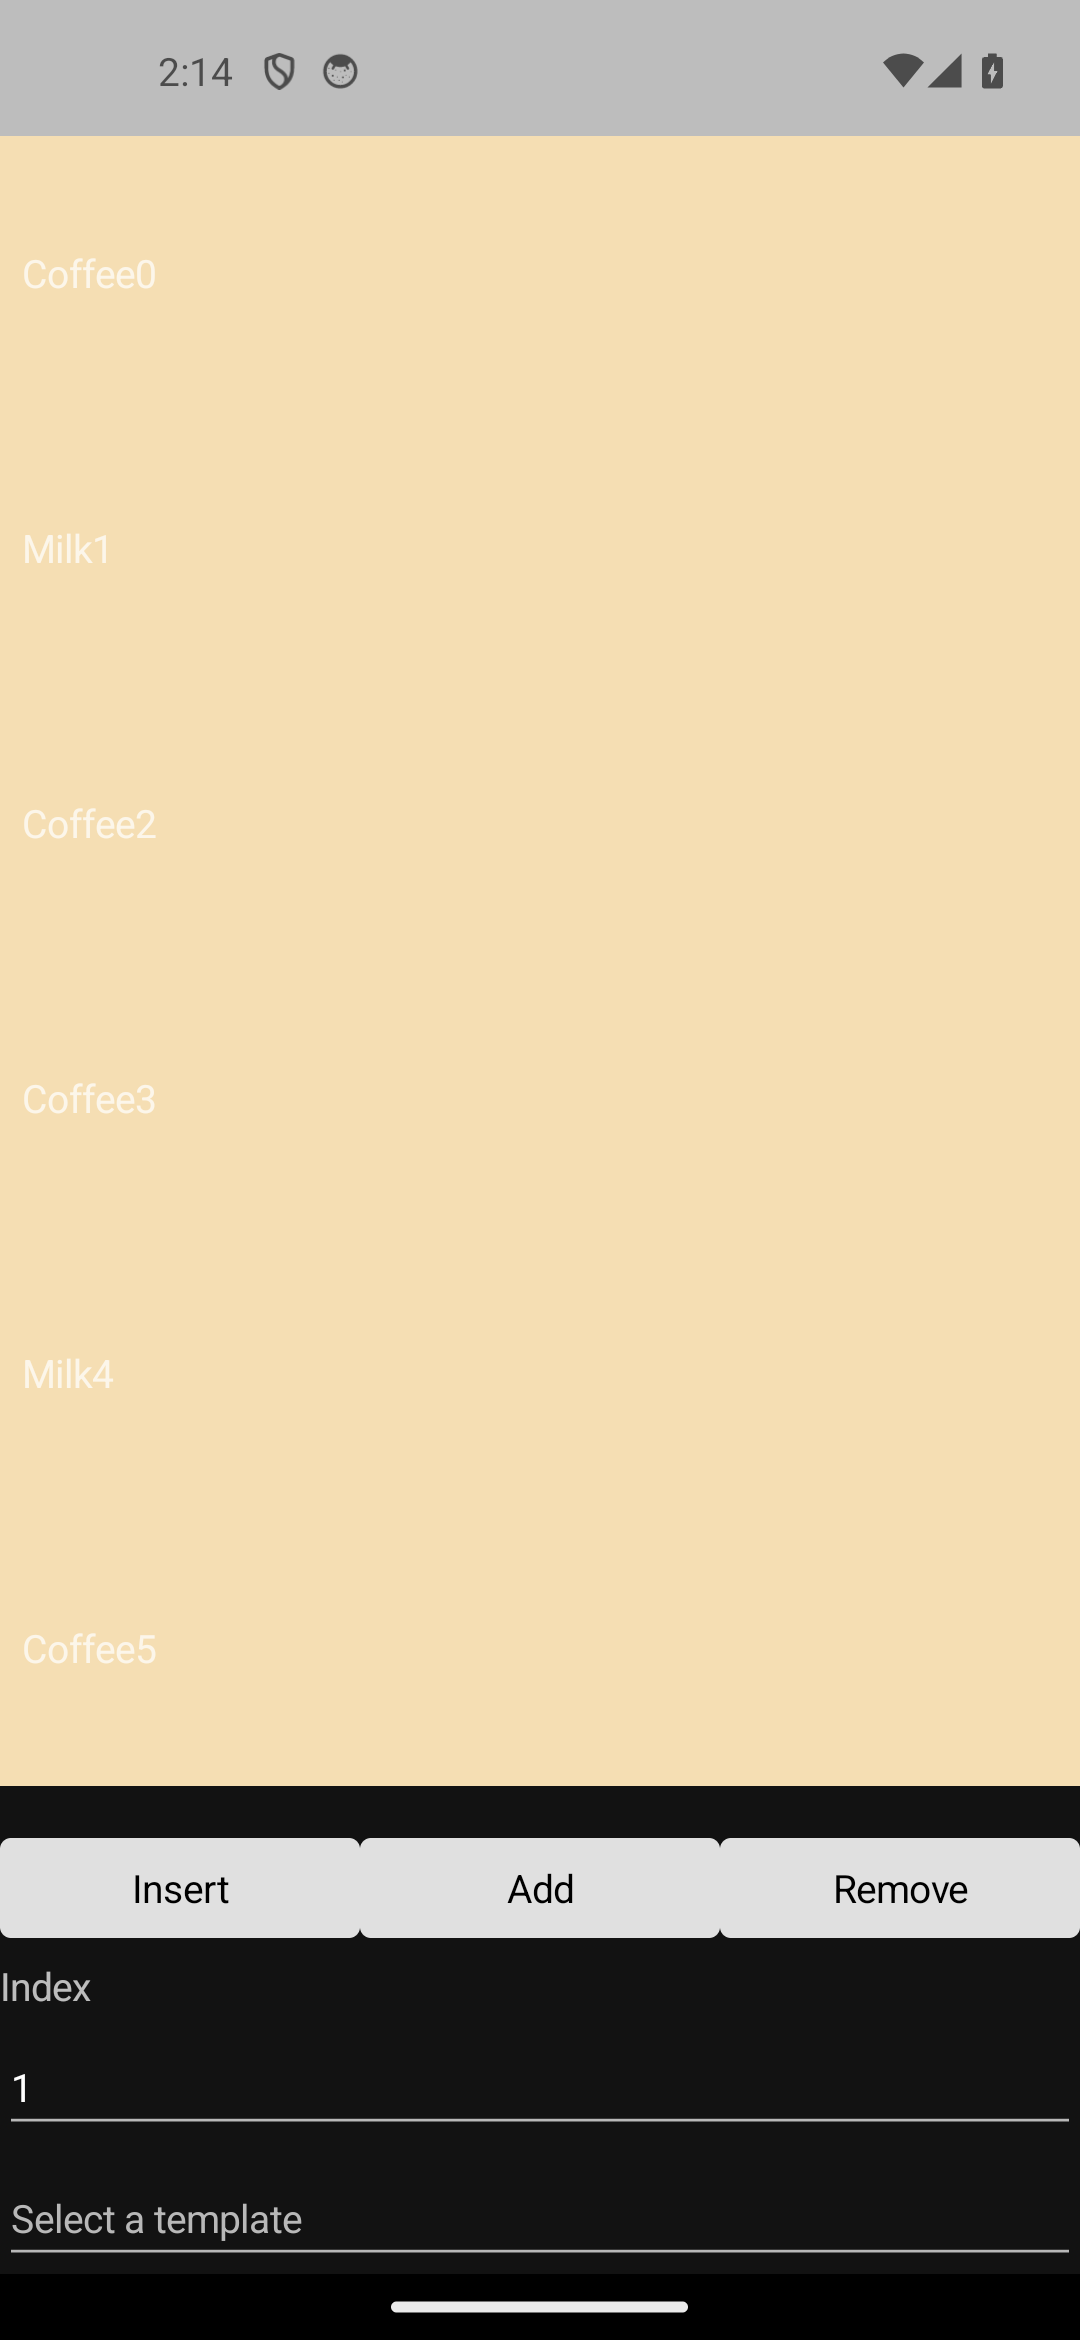
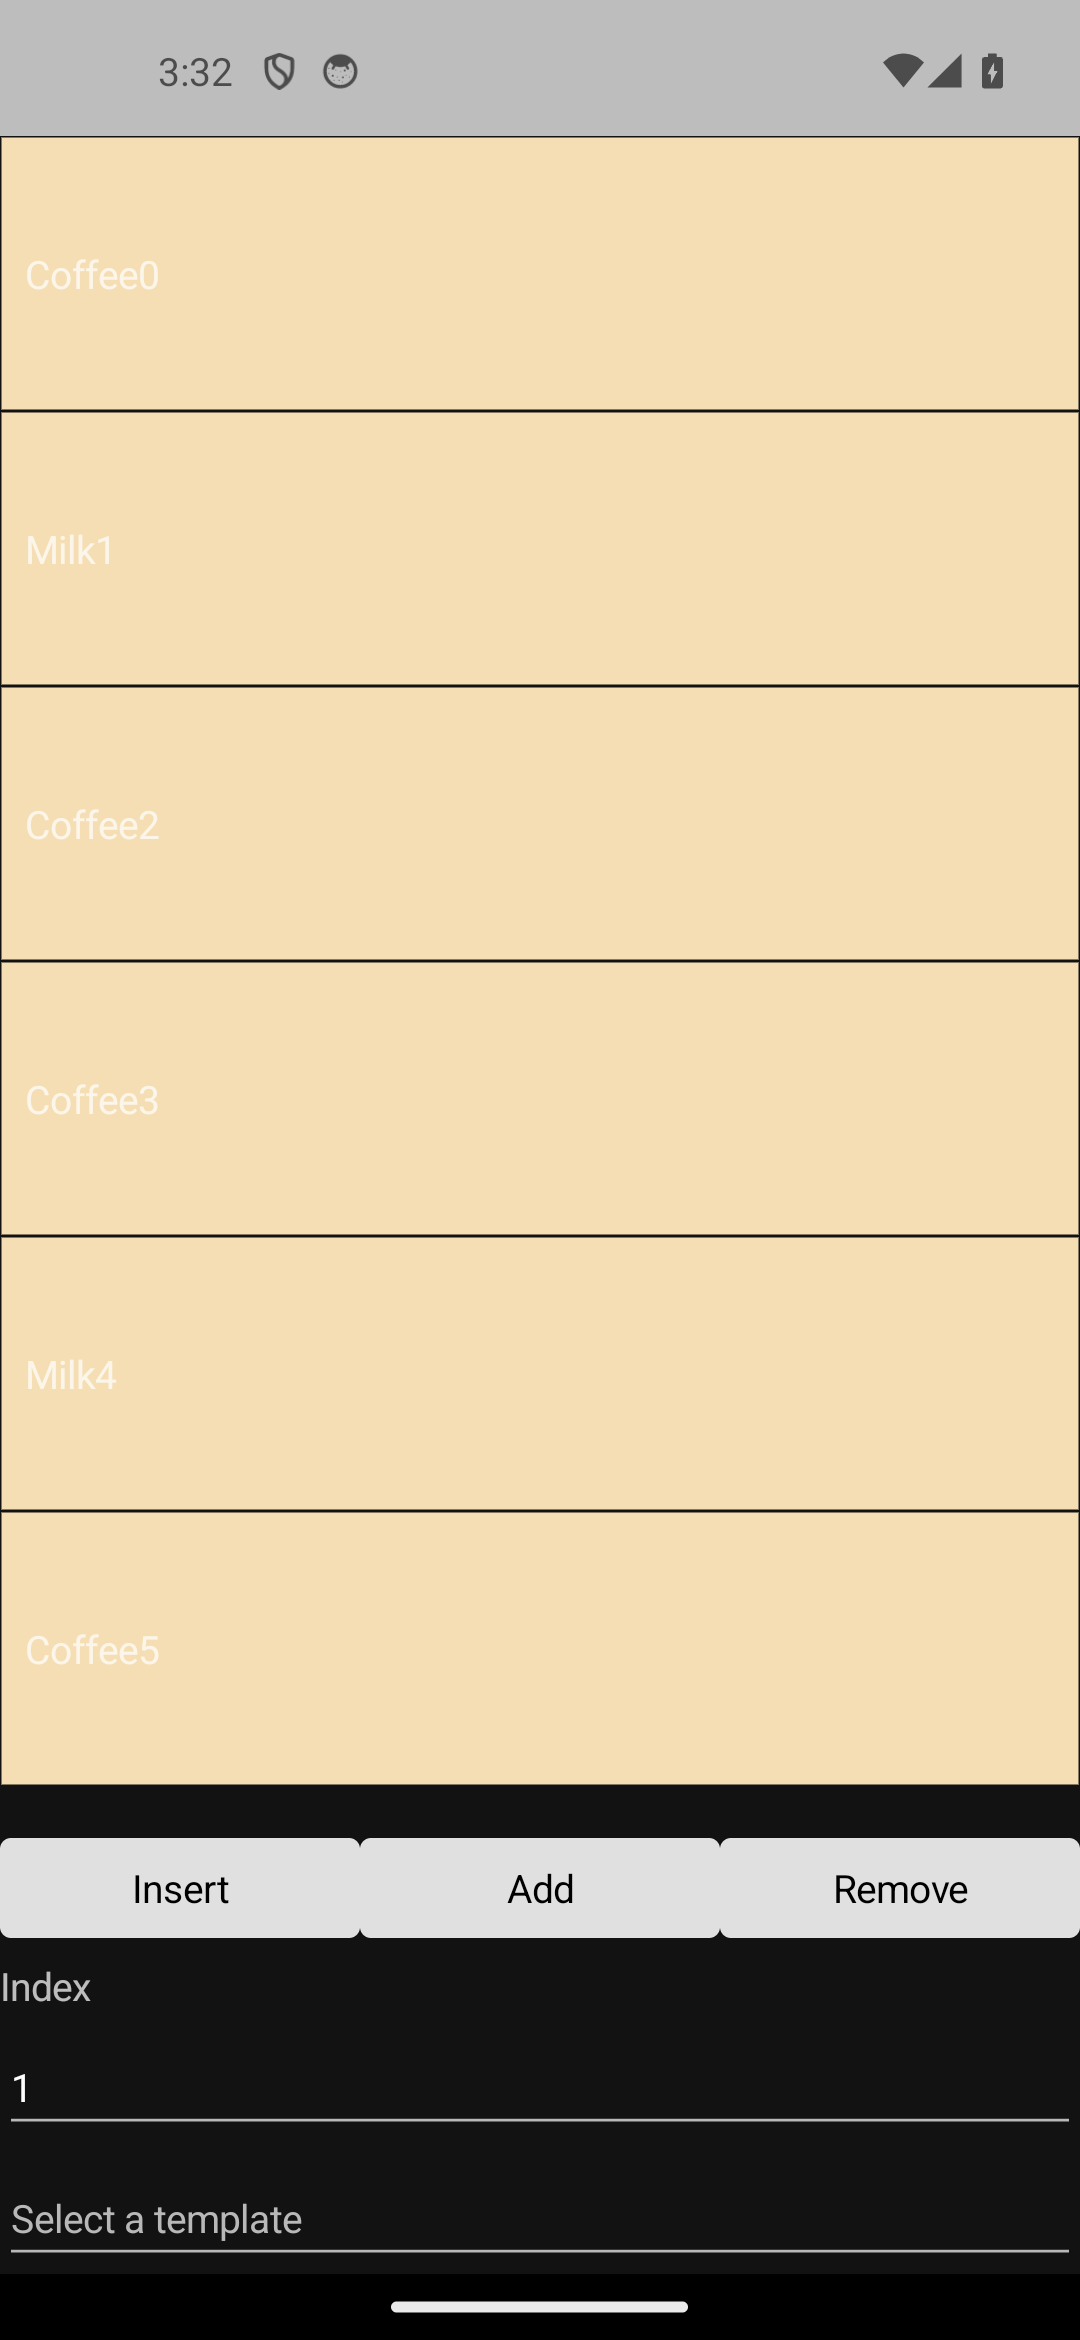
fix(gallery): varied_size_selector cell is a real Border -> GREEN both columns
The code-first page folded the twin's <Border BackgroundColor=Wheat HeightRequest=100
Padding=8> onto a single-root Label cell carrying the Border's look. That reproduces
the colour and height but NOT the geometry: MAUI's MauiDrawable insets a Border's
FILL by strokeThickness/2 (StrokeThickness defaults to 1), so consecutive cells show
a ~4px gap, while a Label cell fills its whole slot. The cpp column therefore painted
one continuous 1650px band where MAUI paints 6 bands of 271px at a 275px pitch.

drink_cell is now a border subclass OWNING its Label (border content is a NON-OWNING
reference per PROFILE §8, so a template cell that creates a child must own it) — the
same pattern as carousel_page's carousel_card and header_footer_template_page's
photo_cell. Item data lands via on_binding_context_changed, since a staged template
binding can only target the cell ROOT. register_handlers maps drink_cell ->
border_handler before the collection_view realize walk (without it the cell realize
silently no-ops and the list renders blank).

varied_size_selector cpp: 1.81% -> 0.09% light / 0.64% dark, GREEN. Its bands now
match MAUI exactly. Pairs with the border fill-inset fix (23e6ef0f66) that greened
the xaml column.

gallery_structure_equivalence.varied_size_selector passes. (8 OTHER equivalence tests
- animation, behaviors, gestures, input_controls, invalidate_brush,
selection_command_param, vertical_stack, web_view - fail identically without this
[…]

diff --git a/port/cpp/examples/gallery/pages/varied_size_selector_page.hpp b/port/cpp/examples/gallery/pages/varied_size_selector_page.hpp
@@ -58,6 +58,7 @@
 #include <string>
 #include <vector>
 
+#include "maui/controls/border.hpp"
 #include "maui/controls/button.hpp"
 #include "maui/controls/content_page.hpp"
 #include "maui/controls/entry.hpp"
@@ -71,13 +72,16 @@
 #include "maui/controls/templates/data_template_selector.hpp"
 #include "maui/controls/vertical_stack_layout.hpp"
 #include "maui/controls/view.hpp"
+#include "maui/core/border_handler.hpp"
 #include "maui/core/grid_length.hpp"
+#include "maui/core/handler_registry.hpp"
 #include "maui/core/observable_collection.hpp"
 #include "maui/core/text_alignment.hpp"
 #include "maui/core/thickness.hpp"
 #include "maui/core/type_tag.hpp"
 #include "maui/graphics/colors.hpp"
 #include "maui/graphics/solid_paint.hpp"
+#include "maui/hosting/maui_app.hpp"
 
 namespace maui::samples
 {
@@ -100,6 +104,41 @@ namespace maui::samples
             std::string name;
             std::vector<std::string> ingredients; // non-empty only for lattes
             friend bool operator==(const drink&, const drink&) = default;
+        };
+
+        // The at-rest ItemTemplate cell, structurally the twin's DataTemplate: a Wheat Border
+        // (HeightRequest 100, Padding 8) OWNING a vertically centered Label bound to the drink Name.
+        // It must be a real Border, not a Label carrying the Border's look: MAUI's MauiDrawable insets a
+        // Border's FILL by strokeThickness/2 (StrokeThickness defaults to 1), so consecutive cells show a
+        // ~4px gap that a plain Label cell — which fills its whole slot — cannot reproduce.
+        // Border content is a NON-OWNING reference (PROFILE §8), so a template cell that creates a child
+        // must OWN it: the same border-subclass-owns-its-child pattern as carousel_page's carousel_card and
+        // header_footer_template_page's photo_cell. Item data lands via on_binding_context_changed (photo_
+        // cell's approach) rather than a staged template binding, which can only target the cell ROOT.
+        class drink_cell final : public maui::controls::border
+        {
+        public:
+            drink_cell()
+            {
+                set_background(std::make_shared<maui::graphics::solid_paint>(maui::graphics::colors::wheat));
+                set_height_request(100.0);
+                set_padding(maui::core::thickness(8));
+                label_.set_vertical_text_alignment(maui::core::text_alignment::center);
+                set_content(label_);
+            }
+
+        protected:
+            void on_binding_context_changed() override
+            {
+                maui::controls::border::on_binding_context_changed(); // propagate to the owned child first
+                if (const auto item = binding_context<drink>())
+                {
+                    label_.set_text(item->name);
+                }
+            }
+
+        private:
+            maui::controls::label label_;
         };
 
         // DrinkTemplateSelector.OnSelectTemplate: branch on the drink's kind (header note).
@@ -205,6 +244,15 @@ namespace maui::samples
         [[nodiscard]] maui::controls::content_page& page()
         {
             return page_;
+        }
+
+        // PRE-MOUNT hook (gallery_host.hpp gallery_pre_mount): register drink_cell's handler BEFORE the
+        // collection_view realize walk. drink_cell is a border subclass, so it shares border's handler;
+        // without this the native cell realize silently no-ops (no registered handler for its type_tag) and
+        // the list renders blank. Mirrors carousel_page::register_handlers.
+        void register_handlers(maui::hosting::maui_app& app)
+        {
+            maui::core::register_handler<drink_cell, maui::core::border_handler>(app.handlers());
         }
 
         // ---- the xaml.cs button handlers (IsValid(index) guard + the live-collection mutation) ----
@@ -360,13 +408,7 @@ namespace maui::samples
         // the single-root label cell, the same reduction stage_background documents).
         [[nodiscard]] static std::shared_ptr<maui::controls::data_template> build_uniform_twin_template()
         {
-            auto cell = maui::controls::data_template::of<maui::controls::label>();
-            cell->set_binding<std::string, drink>(maui::controls::label::text_property(),
-                                                  [](const drink& d) { return d.name; });
-            cell->set_value(maui::controls::height_request_property(), 100.0);
-            cell->set_value(maui::controls::label::padding_property(), maui::core::thickness(8));
-            stage_background(cell, maui::graphics::colors::wheat);
-            return cell;
+            return maui::controls::data_template::of<drink_cell>();
         }
 
         void build_templates()

diff --git a/port/cpp/docs/comparison/README.md b/port/cpp/docs/comparison/README.md
@@ -5205,8 +5205,8 @@ Real .NET MAUI vs the C++ port vs the compile-time-XAML gallery, captured on the
 
 | Classification | Pixel-Perfect Score — C++ (C1/C3) | Pixel-Perfect Score — C++ &amp; XAML (C2/C4) |
 | --- | --- | --- |
-| 🟢 Match | 157 | 158 |
-| 🟡 Minor | 13 | 12 |
+| 🟢 Match | 158 | 158 |
+| 🟡 Minor | 12 | 12 |
 | 🔴 Major | 2 | 2 |
 | ⬛ Blank | 0 | 0 |
 | ⏳ Unreviewed | 0 | 0 |
@@ -7716,16 +7716,16 @@ Light: SSIM 1.0000, 0.00% pixels differ · Dark: SSIM 1.0000, 0.00% pixels diffe
 
 Light: SSIM 1.0000, 0.00% pixels differ · Dark: SSIM 1.0000, 0.00% pixels differ
 
-### 168. Varied Size Selector — 🟡/🟢
+### 168. Varied Size Selector — 🟢/🟢
 <sub>varied_size_selector</sub>
 
 <table><tr><th></th><th>MAUI</th><th>C++</th><th>C++ &amp; XAML</th></tr><tr><th>Light</th><td><img width="300px" src="captures/android/maui/varied_size_selector_light.png" /></td><td><img width="300px" src="captures/android/cpp/varied_size_selector_light.png" /></td><td><img width="300px" src="captures/android/xaml/varied_size_selector_light.png" /></td></tr><tr><th>Dark</th><td><img width="300px" src="captures/android/maui/varied_size_selector_dark.png" /></td><td><img width="300px" src="captures/android/cpp/varied_size_selector_dark.png" /></td><td><img width="300px" src="captures/android/xaml/varied_size_selector_dark.png" /></td></tr></table>
 
 ports DataTemplateSelectorGalleries/VariedSizeDataTemplateSelectorGallery.xaml (+ VariedSizeDataTemplateSelectorGallery.xaml.cs) of the C# CollectionView gallery
 
-#### 🟡 Pixel-Perfect Score — C++ (C1/C3)
+#### 🟢 Pixel-Perfect Score — C++ (C1/C3)
 
-Light: SSIM 0.9631, 1.81% pixels differ · Dark: SSIM 0.9506, 1.65% pixels differ
+Light: SSIM 0.9996, 0.09% pixels differ · Dark: SSIM 0.9994, 0.64% pixels differ
 
 #### 🟢 Pixel-Perfect Score — C++ &amp; XAML (C2/C4)
 
